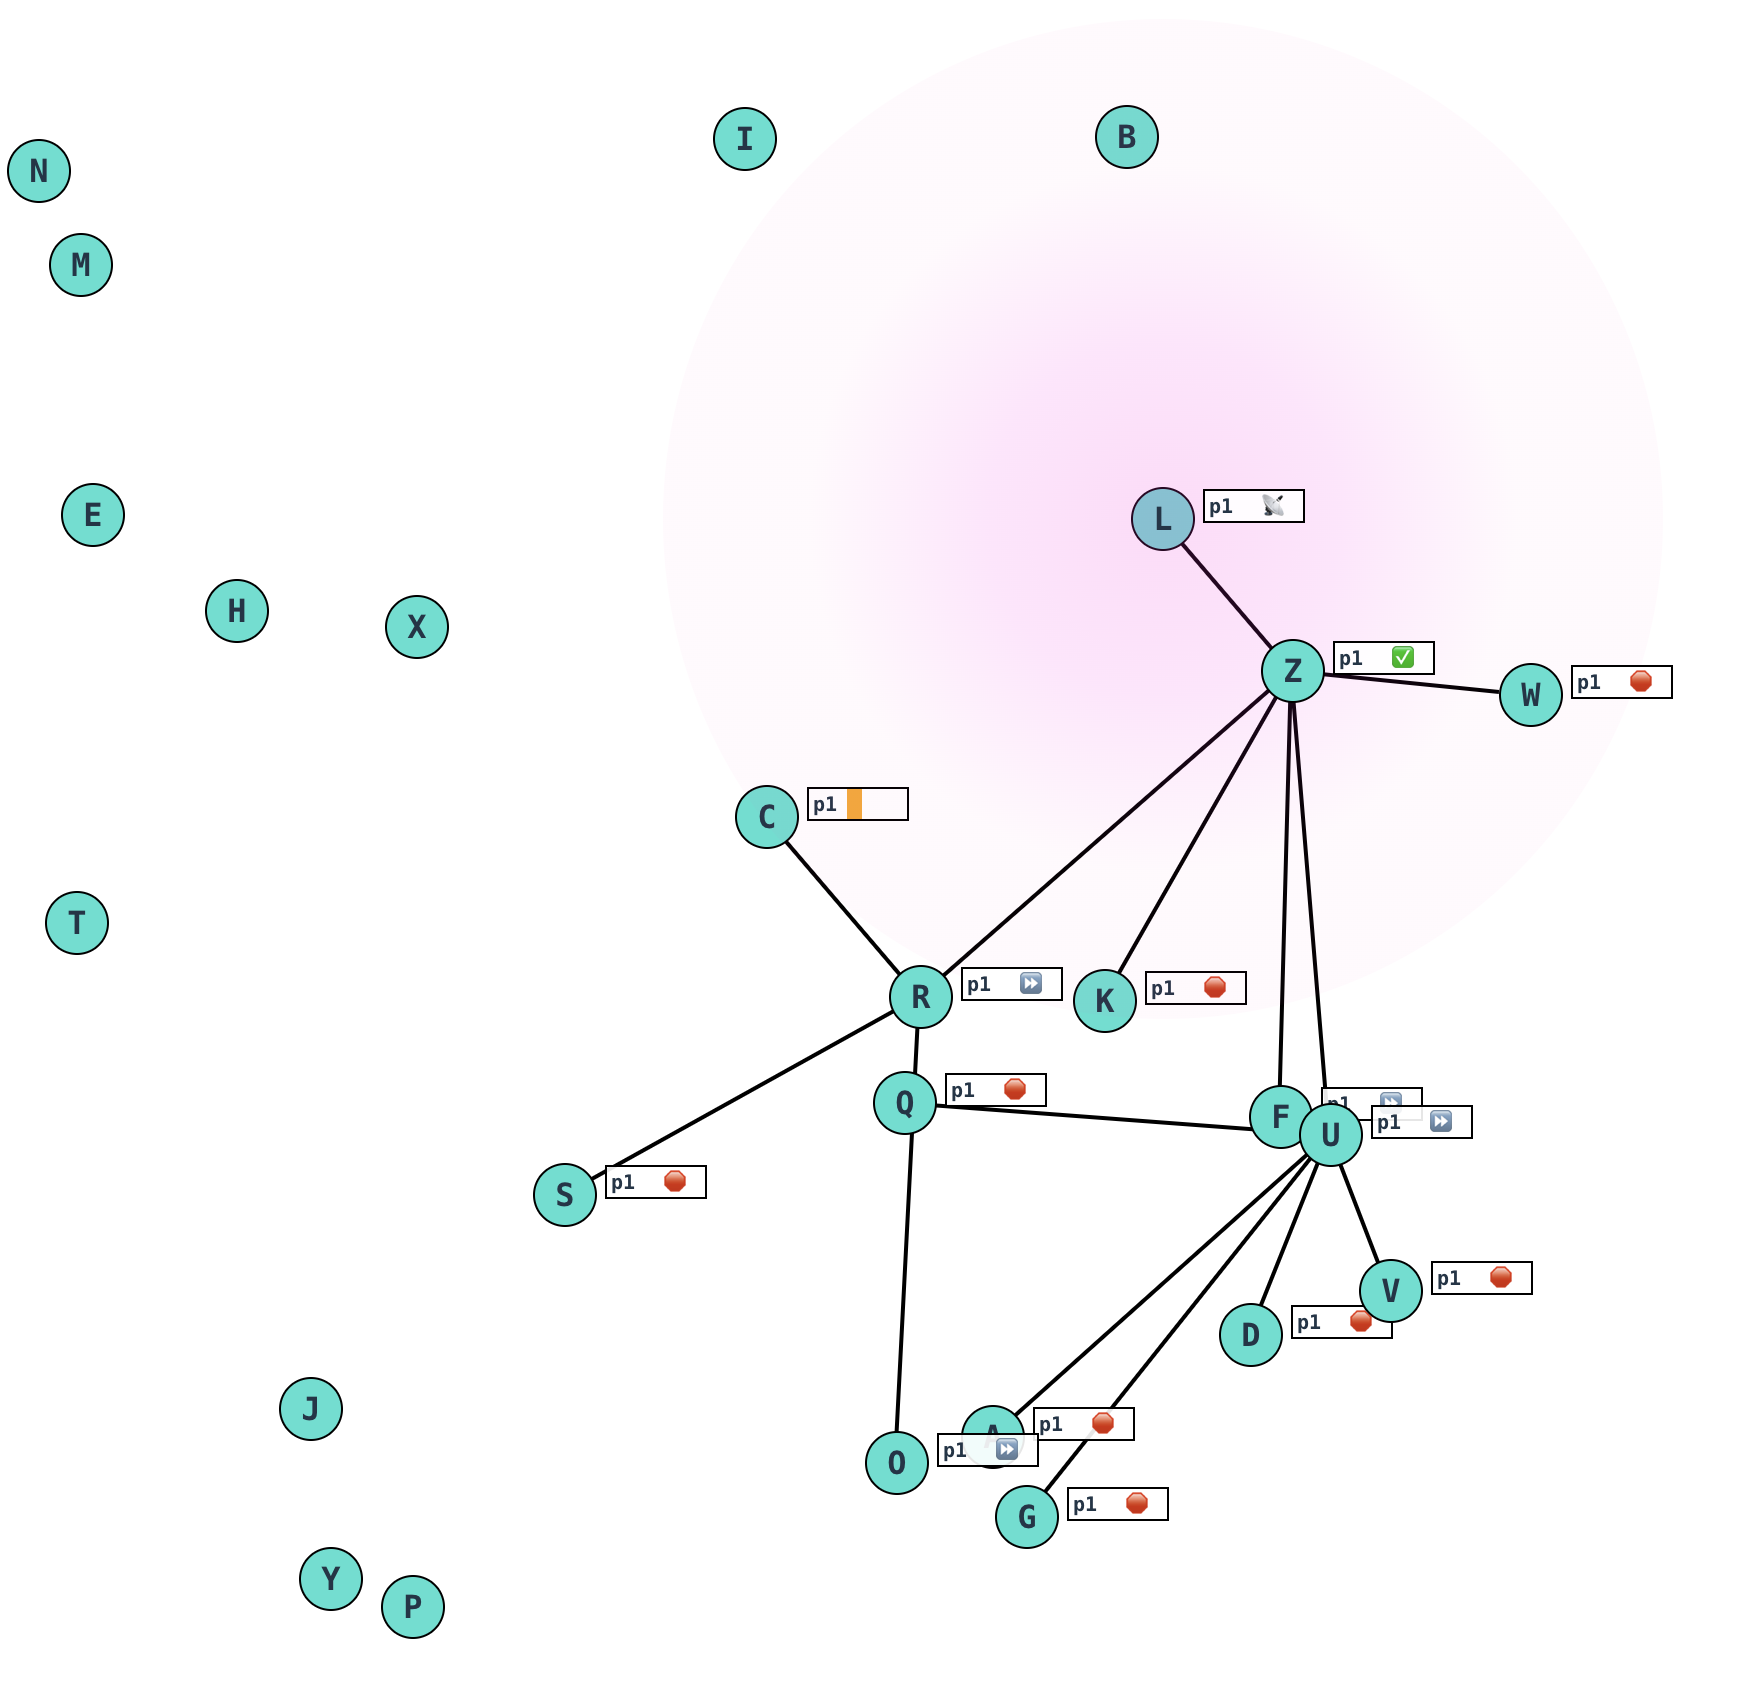
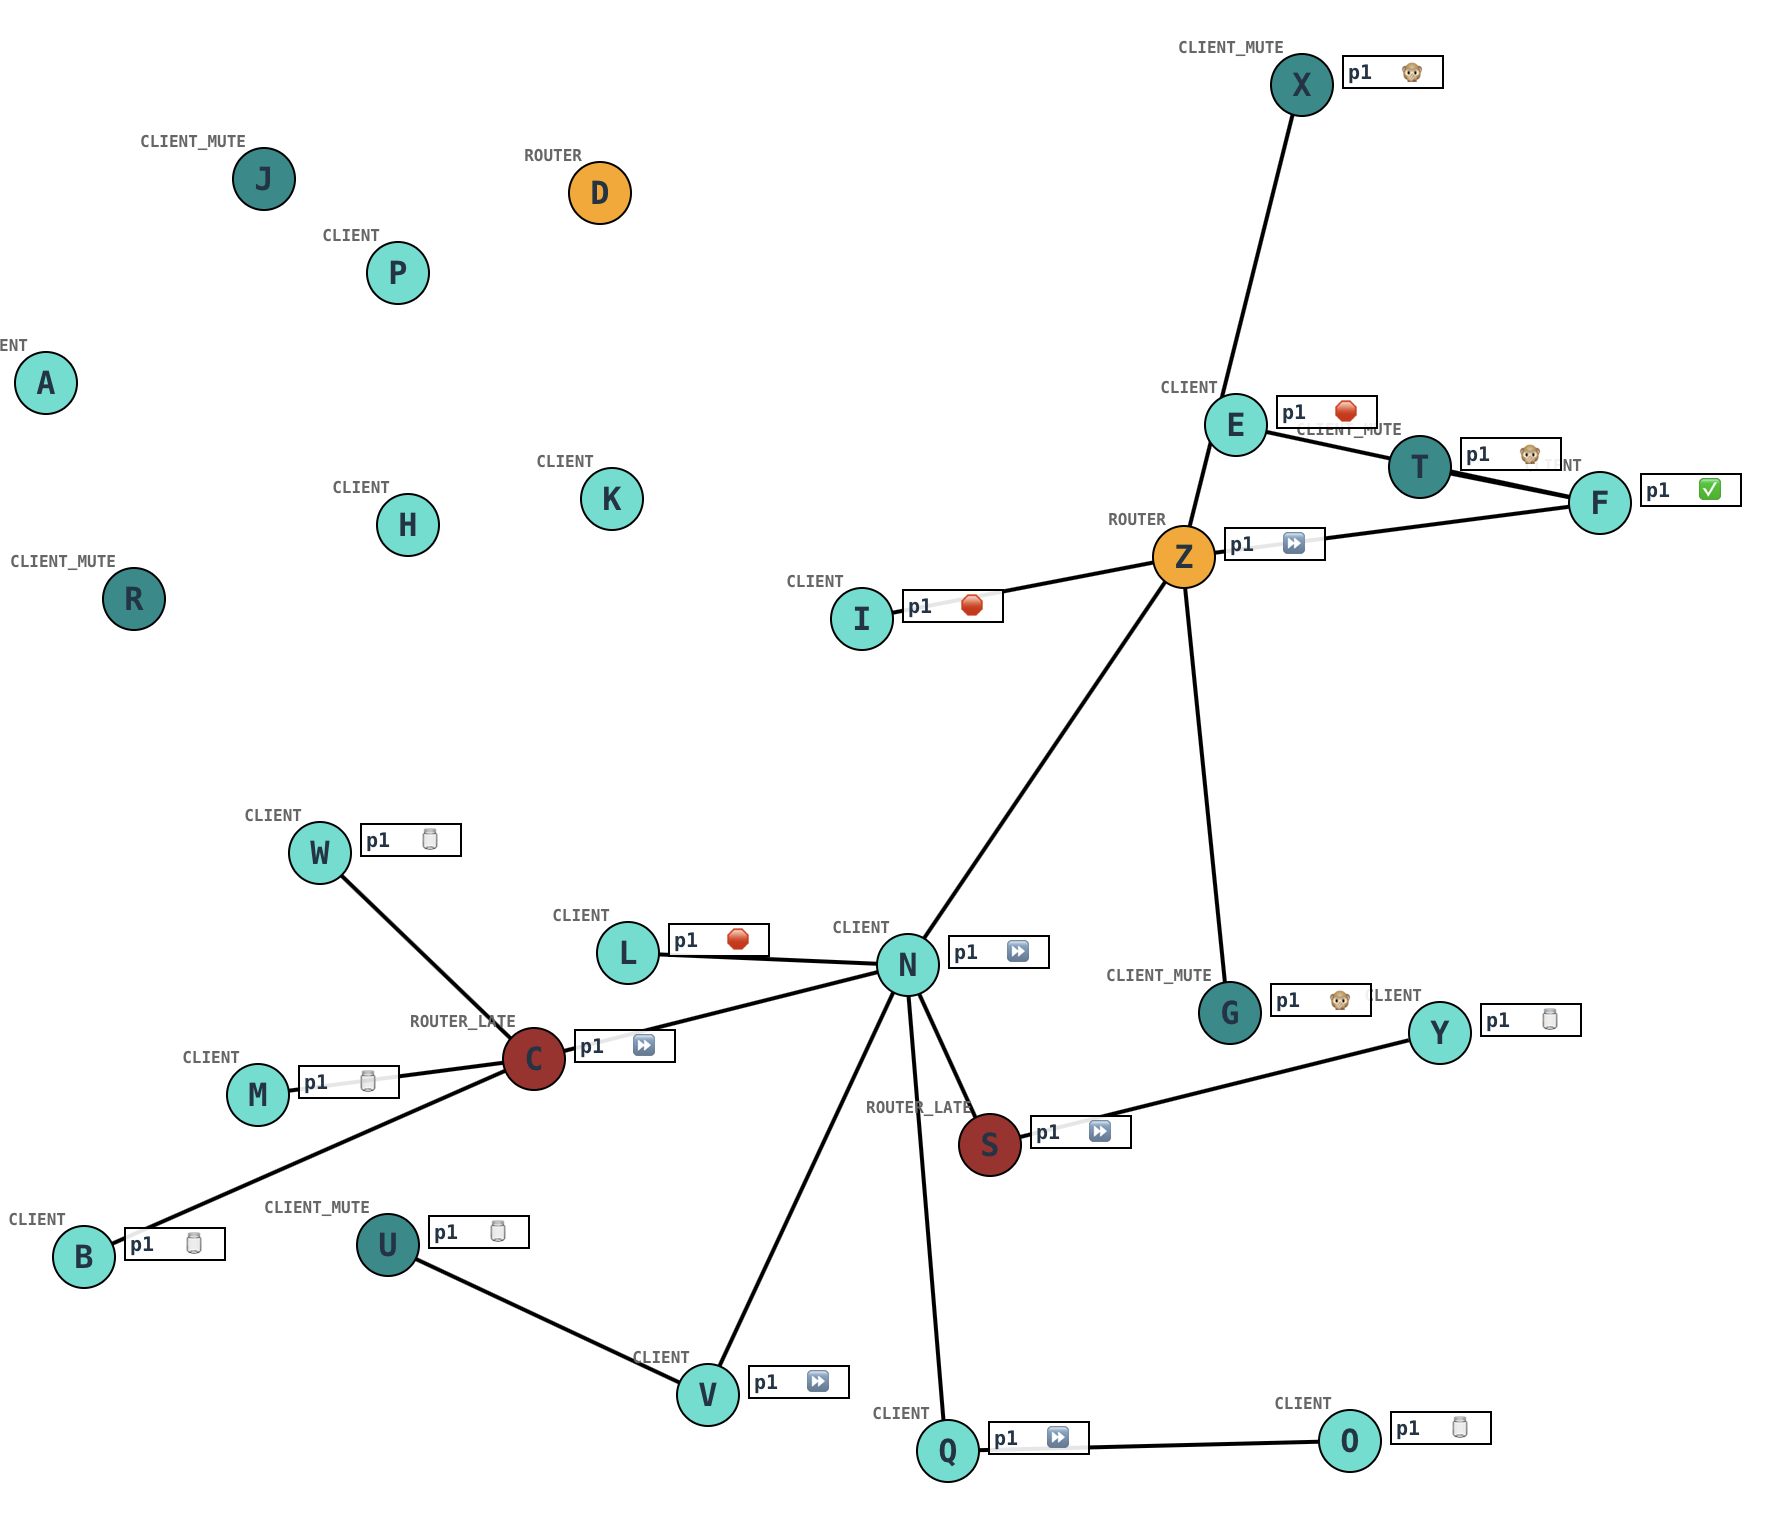
Add roles

diff --git a/src/sim/setup.ts b/src/sim/setup.ts
@@ -1,0 +1,75 @@
+import { MeshNodeRole } from './constants';
+import MeshNode from './MeshNode';
+import type SimMesh from './SimMesh';
+
+
+const SCENARIO = [
+  { "short_name": "A", "left_px": 7, "top_px": 202 },
+  { "short_name": "B", "left_px": 26, "top_px": 639 },
+  { "short_name": "C", "left_px": 251, "top_px": 540, role: MeshNodeRole.ROUTER_LATE },
+  { "short_name": "D", "left_px": 284, "top_px": 107, role: MeshNodeRole.ROUTER }, // Naughty router
+  { "short_name": "E", "left_px": 602, "top_px": 223 },
+  { "short_name": "F", "left_px": 784, "top_px": 262 },
+  { "short_name": "G", "left_px": 599, "top_px": 517, role: MeshNodeRole.CLIENT_MUTE  },
+  { "short_name": "H", "left_px": 188, "top_px": 273 },
+  { "short_name": "I", "left_px": 415, "top_px": 320 },
+  { "short_name": "J", "left_px": 116, "top_px": 100, role: MeshNodeRole.CLIENT_MUTE },
+  { "short_name": "K", "left_px": 290, "top_px": 260 },
+  { "short_name": "L", "left_px": 298, "top_px": 487 },
+  { "short_name": "M", "left_px": 113, "top_px": 558 },
+  { "short_name": "N", "left_px": 438, "top_px": 493 },
+  { "short_name": "O", "left_px": 659, "top_px": 731 },
+  { "short_name": "P", "left_px": 183, "top_px": 147 },
+  { "short_name": "Q", "left_px": 458, "top_px": 736 },
+  { "short_name": "R", "left_px": 51, "top_px": 310, role: MeshNodeRole.CLIENT_MUTE },
+  { "short_name": "S", "left_px": 479, "top_px": 583, role: MeshNodeRole.ROUTER_LATE  },
+  { "short_name": "T", "left_px": 694, "top_px": 244, role: MeshNodeRole.CLIENT_MUTE },
+  { "short_name": "U", "left_px": 178, "top_px": 633, role: MeshNodeRole.CLIENT_MUTE },
+  { "short_name": "V", "left_px": 338, "top_px": 708 },
+  { "short_name": "W", "left_px": 144, "top_px": 437 },
+  { "short_name": "X", "left_px": 635, "top_px": 53, role: MeshNodeRole.CLIENT_MUTE },
+  { "short_name": "Y", "left_px": 704, "top_px": 527 },
+  { "short_name": "Z", "left_px": 576, "top_px": 289, role: MeshNodeRole.ROUTER } // Good router
+];
+
+const SIMPLE = [
+  { short_name: 'A', left_px: 20, top_px: 20 },
+  { short_name: 'B', left_px: 100, top_px: 50 },
+  { short_name: 'C', left_px: 40, top_px: 100 },
+  { short_name: 'D', left_px: 200, top_px: 120 },
+  { short_name: 'E', left_px: 20, top_px: 300 },
+  { short_name: 'F', left_px: 250, top_px: 400 },
+  { short_name: 'G', left_px: 250, top_px: 10 },
+];
+
+function randomize () {
+  const nodes = [];
+  for (let i = 0; i < 26; i++) {
+    nodes.push({
+      short_name: String.fromCharCode(i + 65),
+      left_px: Math.floor(800 * Math.random()),
+      top_px: Math.floor(800 * Math.random()),
+      role: MeshNodeRole.CLIENT,
+    });
+  }
+  return nodes;
+}
+
+export function layoutNodes (sim: SimMesh, scenario: 'simple' | 'random' | 'set') {
+  let nodes: Array<Pick<MeshNode, 'short_name' | 'left_px' | 'top_px'> & Partial<Pick<MeshNode, 'role'>>>;
+  if (scenario === 'set') {
+    nodes = [...SCENARIO];
+  } else if (scenario === 'simple') {
+    nodes = [...SIMPLE];
+  } else if (scenario === 'random') {
+    nodes = randomize();
+  }
+  nodes!.forEach(node => {
+    sim.addNode(
+      node.short_name,
+      node.left_px,
+      node.top_px,
+      node.role,
+    );
+  });
+}

diff --git a/src/sim/MeshPacket.ts b/src/sim/MeshPacket.ts
@@ -1,5 +1,5 @@
 import type MeshNode from './MeshNode';
-import { MAX_RELAY_DELAY_MS, MAX_TX_DELAY_MS, MeshPacketStatus, MIN_RELAY_DELAY_MS, TX_TIMEOUT } from './constants';
+import { MAX_RELAY_DELAY_MS, MAX_TX_DELAY_MS, MeshNodeRole, MeshPacketStatus, MIN_RELAY_DELAY_MS, TX_TIMEOUT } from './constants';
 import { genKey } from './utils';
 
 export default class MeshPacket {
@@ -64,7 +64,10 @@ export default class MeshPacket {
       } else if (this.transmit_started_at) {
         return MeshPacketStatus.transmitting;
       } else if (this.hop_limit > 0) {
-        if (this.duplicates.length > 0) {
+        if (this.receiver?.role === MeshNodeRole.CLIENT_MUTE) {
+          return MeshPacketStatus.muted;
+        }
+        if (this.duplicates.length > 0 && this.receiver?.role === MeshNodeRole.CLIENT) {
           return MeshPacketStatus.canceled;
         }
         return MeshPacketStatus.waiting_relay;
@@ -78,9 +81,32 @@ export default class MeshPacket {
     let delay_ms = 0;
     let delta_ms = 0;
     if (this.received_at) {
+      let min_relay_delay_ms = 0;
+      let max_relay_delay_ms = 0;
+      let snr_factor = 0;
+      switch (this.receiver!.role) {
+        case MeshNodeRole.CLIENT: {
+          min_relay_delay_ms = MIN_RELAY_DELAY_MS;
+          max_relay_delay_ms = MAX_RELAY_DELAY_MS;
+          snr_factor = this.received_snr ?? 1;
+          break;
+        }
+        case MeshNodeRole.ROUTER: {
+          min_relay_delay_ms = 0;
+          max_relay_delay_ms = MIN_RELAY_DELAY_MS;
+          snr_factor = 0;
+          break;
+        }
+        case MeshNodeRole.ROUTER_LATE: {
+          min_relay_delay_ms = MAX_RELAY_DELAY_MS;
+          max_relay_delay_ms = 0;
+          snr_factor = 0;
+          break;
+        }
+      }
       delta_ms = t.getTime() - this.received_at.getTime();
-      const rand_window = 500;
-      delay_ms = MIN_RELAY_DELAY_MS + (MAX_RELAY_DELAY_MS - MIN_RELAY_DELAY_MS - rand_window) * (this.received_snr ?? 1) + this._random * rand_window;
+      const rand_window = 500; // simulate airtime waiting
+      delay_ms = min_relay_delay_ms + (max_relay_delay_ms - min_relay_delay_ms - rand_window) * snr_factor + this._random * rand_window;
     } else {
       delta_ms = t.getTime() - this.created_at.getTime();
       delay_ms = MAX_TX_DELAY_MS // TODO: base this on currently receiving

diff --git a/src/sim/constants.ts b/src/sim/constants.ts
@@ -6,10 +6,18 @@ export const TICK_INTERVAL        = 100;      // The time resolution of the simu
 export const TX_TIME_MS           = 500;      // How long each transmission takes
 export const TX_TIMEOUT           = 30_000;   // How long until max_retransmission_reached if no ack
 
+export enum MeshNodeRole {
+  CLIENT                      = 'CLIENT',
+  CLIENT_MUTE                 = 'CLIENT_MUTE',
+  ROUTER                      = 'ROUTER',
+  ROUTER_LATE                 = 'ROUTER_LATE',
+}
+
 export enum MeshPacketStatus {
   acked                       = 'acked',                        // Has received a duplicate of its own packet
   canceled                    = 'canceled',                     // Stopped its relay countdown after hearing another duplicate first
   exhausted                   = 'exhausted',                    // The packet has no more hops
+  muted                       = 'muted',                        // The node is client_mute and will not relay
   max_retransmission_reached  = 'max_retransmission_reached',   // Never heard another node relay its own packet within the TX_TIMEOUT
   relayed                     = 'relayed',                      // Has transmitted a packet it did not originate
   transmitting                = 'transmitting',                 // Is currently transmitting a packet

diff --git a/src/sim/MeshNode.ts b/src/sim/MeshNode.ts
@@ -1,22 +1,23 @@
+import { MeshNodeRole } from './constants';
 import type MeshPacket from './MeshPacket';
 import type SimMesh from './SimMesh';
 import { genKey } from './utils';
 
 export default class MeshNode {
-  key: string;
-  short_name: string;
-  role: 'CLIENT';
-  packets: Array<MeshPacket>;
-  left_px: number;
-  top_px: number;
-  world: SimMesh;
+  key         : string;
+  packets     : Array<MeshPacket>;
+  short_name  : string;
+  role        : MeshNodeRole;
+  left_px     : number;
+  top_px      : number;
+  world       : SimMesh;
 
-  constructor (attrs: Pick<MeshNode, 'short_name' | 'left_px' | 'top_px'>, world: SimMesh) {
+  constructor (attrs: Pick<MeshNode, 'short_name' | 'left_px' | 'top_px' | 'role'>, world: SimMesh) {
     this.short_name = attrs.short_name;
     this.left_px = attrs.left_px;
     this.top_px = attrs.top_px;
     this.packets = [];
-    this.role = 'CLIENT';
+    this.role = attrs.role;
     this.key = genKey();
     this.world = world;
   }

diff --git a/src/sim/SimMesh.ts b/src/sim/SimMesh.ts
@@ -6,7 +6,7 @@
 // TODO: linkable network configurations
 // TODO: express the constants as frame counts instead of real time? or is real time nice because it matches real world
 
-import { MAX_DIST, MeshPacketStatus, TICK_INTERVAL, TX_TIME_MS } from './constants';
+import { MAX_DIST, MeshNodeRole, MeshPacketStatus, TICK_INTERVAL, TX_TIME_MS } from './constants';
 import MeshNode from './MeshNode';
 import MeshPacket from './MeshPacket';
 import { distBetweenNodes } from './utils';
@@ -58,8 +58,8 @@ export default class SimMesh {
     this._listeners[name] = this._listeners[name].filter(fn => fn !== handler);
   }
 
-  addNode (short_name: string, left_px = 20, top_px = 20) {
-    const node = new MeshNode({ short_name, left_px, top_px }, this);
+  addNode (short_name: string, left_px = 20, top_px = 20, role = MeshNodeRole.CLIENT) {
+    const node = new MeshNode({ short_name, left_px, top_px, role }, this);
     this.nodes.push(node);
     return node;
   }

diff --git a/src/components/MeshNodeUI.tsx b/src/components/MeshNodeUI.tsx
@@ -6,13 +6,16 @@ import PacketUI from './PacketUI';
 export default function MeshNodeUI (props: { node: MeshNode }) {
   const is_transmitting = props.node.packets.filter(p => p.status === MeshPacketStatus.transmitting).length > 0;
   return (
-    <div className="ClientNode" onClick={ () => props.node.originatePacket() } style={{
+    <div className="ClientNode" data-role={props.node.role} onClick={ () => props.node.originatePacket() } style={{
       left: props.node.left_px,
       top: props.node.top_px,
     }} data-num_packets={ props.node.packets.length }>
       {
         is_transmitting ? <div className='_TransmittingCircle' /> : null
       }
+      <div className="_Role">
+        { props.node.role }
+      </div>
       <div className="_ShortName">
         { props.node.short_name }
       </div>

diff --git a/src/App.css b/src/App.css
@@ -8,10 +8,27 @@
   border-radius: 1em;
   border: 1px solid black;
   background-color: turquoise;
+  &[data-role="ROUTER"] {
+    background-color: orange;
+  }
+  &[data-role="ROUTER_LATE"] {
+    background-color: brown;
+  }
+  &[data-role="CLIENT_MUTE"] {
+    background-color: darkcyan;
+  }
   text-align: center;
   font-weight: bold;
   position: absolute;
   cursor: pointer;
+  ._Role {
+    position: absolute;
+    right: 80%;
+    top: -10px;
+    font-size: 0.5em;
+    z-index: 1;
+    color: #666;
+  }
   ._ShortName {
     position: relative;
     top: 0.2em;
@@ -24,6 +41,7 @@
     left: calc(100% + 5px);
     top: 0;
     pointer-events: none;
+    z-index: 2;
     li {
       padding: 0;
       margin: 0;

diff --git a/src/App.tsx b/src/App.tsx
@@ -3,21 +3,10 @@ import SimMesh from './sim/SimMesh';
 import MeshNodeUI from './components/MeshNodeUI';
 import './App.css';
 import PacketEdge from './components/PacketEdge';
+import { layoutNodes } from './sim/setup';
 
 const sim = new SimMesh();
-// sim.addNode('A', 20, 20);
-// sim.addNode('B', 100, 50);
-// sim.addNode('C', 40, 100);
-// sim.addNode('D', 200, 120);
-// sim.addNode('E', 20, 300);
-// sim.addNode('F', 250, 400);
-// sim.addNode('G', 250, 10);
-for (let i = 0; i < 26; i++) {
-  sim.addNode(String.fromCharCode(i + 65),
-    Math.floor(800 * Math.random()),
-    Math.floor(800 * Math.random()),
-  );
-}
+layoutNodes(sim, 'set');
 
 
 function App() {

diff --git a/src/components/PacketUI.tsx b/src/components/PacketUI.tsx
@@ -38,6 +38,11 @@ export default function PacketUI (props: { packet: MeshPacket }) {
       status_text = `Canceled with ${ props.packet.hop_limit } hop${props.packet.hop_limit !== 1 ? 's' : '' } left by ${ props.packet.duplicates[0].relay?.short_name }`;
       break;
     }
+    case MeshPacketStatus.muted: {
+      status_icon = '🙊';
+      status_text = `Heard but not relayed due to role`;
+      break;
+    }
     case MeshPacketStatus.transmitting: {
       status_icon = '📡';
       status_text = 'Transmitting';

diff --git a/README.md b/README.md
@@ -11,7 +11,15 @@ This is a simplified simulation of the “[managed flooding](https://meshtastic.
 
 See a deployed version [here](https://k2xap.radio/meshtastic/managed-flooding).
 
-The nodes are randomly arranged at start time. Click on a node to originate a packet from it. It will broadcast and be heard by nearby nodes. These clients will start their SNR-based countdowns before relaying, obeying the cancellation and hop limit logic of the algorithm.
+The nodes are arranged with a predetermined layout at start time. Click on a node to originate a packet from it. It will broadcast and be heard by nearby nodes. `CLIENT` nodes will start their SNR-based countdowns before relaying, obeying the cancellation and hop limit logic of the algorithm. `ROUTER` and `ROUTER_LATE` nodes will relay either immediately or after all clients. `CLIENT_MUTE` nodes will not relay.
+
+- H: see a complete propagation
+- J: see poorly placed `ROUTER` D stop propagation
+- G: see `ROUTER_LATE` continue propagation
+- F: see hop exhaustion
+- X: see `ROUTER`, `ROUTER_LATE` work properly
+
+**Note:** this simulator currently does not include airtime and collision detection, or the effects of such interference. It also does not include the frictionless hop behavior between mutually favorited infrastructure nodes, or the semi-router behavior of `CLIENT_BASE`.
 
 ### Running locally
 
@@ -26,3 +34,11 @@ Start the dev server:
 - `npm run dev`
 
 Use a browser to visit the displayed address in the console to see the running app.
+
+### Build for deployment
+
+Build a single-file version for deployment:
+
+- `npm run build`
+
+This produces an `index.html` file inside `dist/` that contains everything needed to run the app in the browser.
